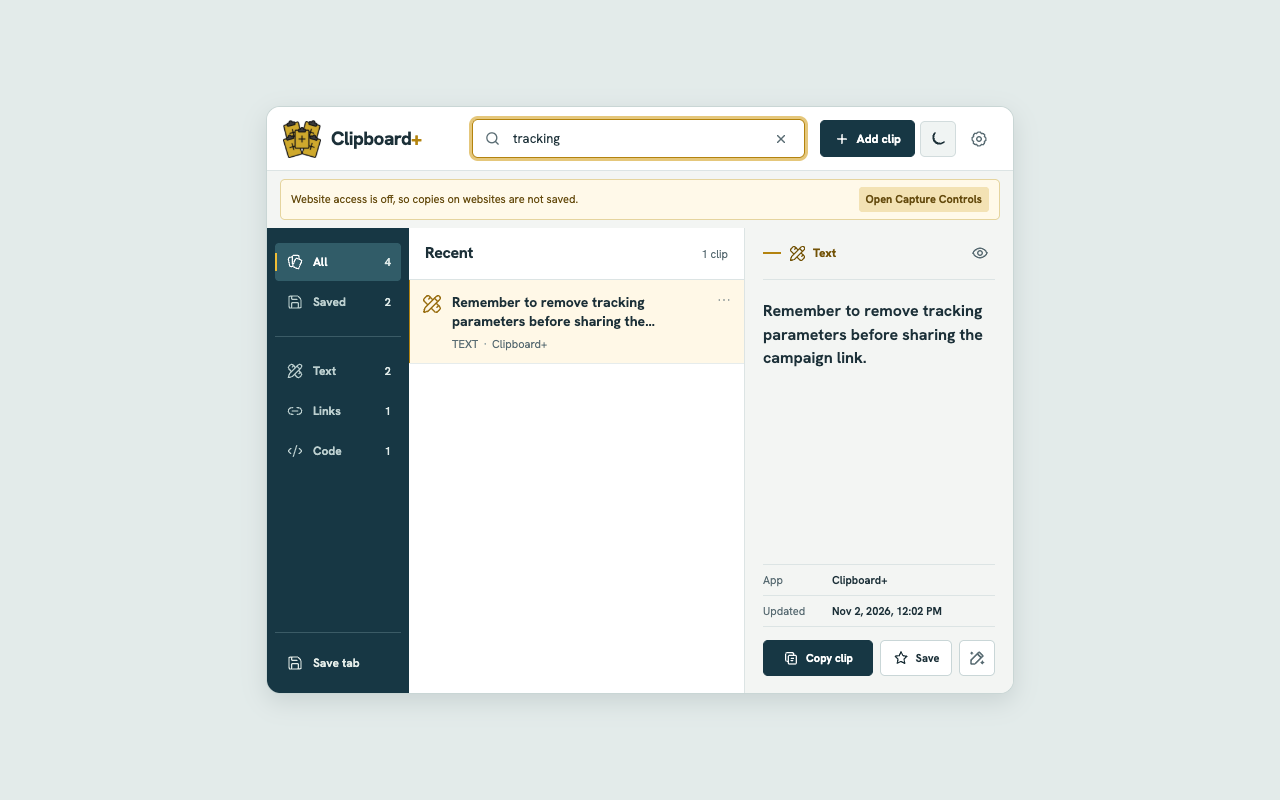
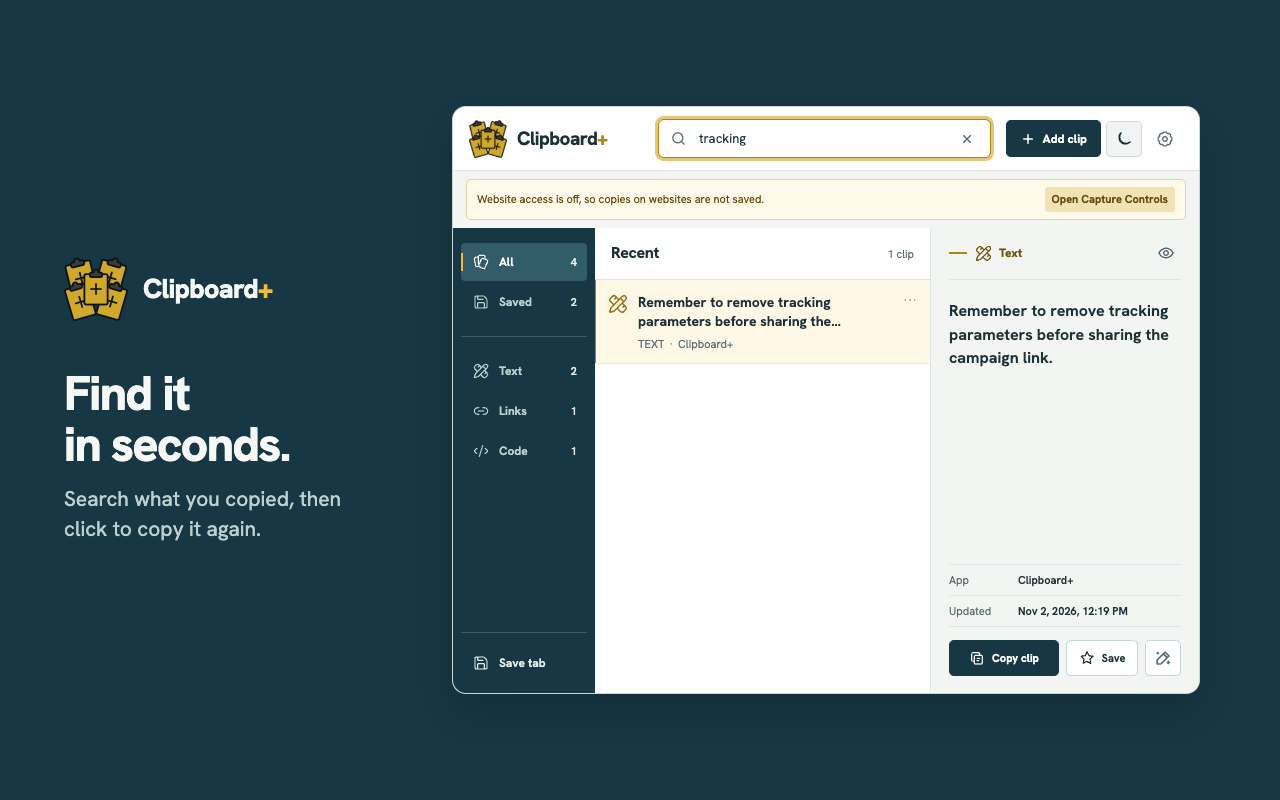
docs: frame store screenshots in Clipboard+ navy

diff --git a/README.md b/README.md
@@ -70,7 +70,7 @@ Upgrading from 1.5.0 or 1.5.1 resets the old build-specific Accessibility entry 
 - Without the companion, Chrome internal pages, the Chrome Web Store, browser UI, and desktop applications cannot be captured. The companion sees the resulting system clipboard instead and covers most of those gaps.
 - Incognito access is disabled in the manifest.
 
-The public [privacy policy](https://tonys-coding.github.io/ClipboardPlus/privacy.html), [support page](https://tonys-coding.github.io/ClipboardPlus/support.html), and [data-deletion instructions](https://tonys-coding.github.io/ClipboardPlus/data-deletion.html) are maintained from `docs/`. `npm run assets:store` captures five 1280×800 store screenshots from the running store build in Chromium, with representative demo clips rather than private user data or mock UI. It also refreshes the two promo tiles and Workspace and Capture Controls previews used by the homepage. The small tile is cropped from the supplied high-resolution JPEG; the marquee uses the supplied real popup screenshot, bundled font, and official logo. Both render at the Web Store's exact 440×280 and 1400×560 PNG sizes. Their sources are kept in `store-assets/source/`. `npm run test:site` checks the five public pages at desktop and mobile sizes.
+The public [privacy policy](https://tonys-coding.github.io/ClipboardPlus/privacy.html), [support page](https://tonys-coding.github.io/ClipboardPlus/support.html), and [data-deletion instructions](https://tonys-coding.github.io/ClipboardPlus/data-deletion.html) are maintained from `docs/`. `npm run assets:store` captures five 1280×800 store screenshots from the running store build in Chromium, with representative demo clips rather than private user data or mock UI. Each genuine capture is framed on the Workspace's petrol-navy background with the official logo and a short feature caption; the interface inside each capture is unaltered. The command also refreshes the two promo tiles and Workspace and Capture Controls previews used by the homepage. The small tile is cropped from the supplied high-resolution JPEG; the marquee uses the supplied real popup screenshot, bundled font, and official logo. Both render at the Web Store's exact 440×280 and 1400×560 PNG sizes. Their sources are kept in `store-assets/source/`. `npm run test:site` checks the five public pages at desktop and mobile sizes.
 
 ## Using the extension
 

diff --git a/store-assets/README.md b/store-assets/README.md
@@ -1,6 +1,6 @@
 # Chrome Web Store screenshots
 
-These five 1280×800 PNGs are captured by `npm run assets:store` from the actual Clipboard+ store build running in Chromium. The script seeds representative local demo clips in a temporary browser profile; it does not use anyone's private clipboard history or draw substitute interface components.
+These five 1280×800 PNGs are captured by `npm run assets:store` from the actual Clipboard+ store build running in Chromium. The script seeds representative local demo clips in a temporary browser profile; it does not use anyone's private clipboard history or draw substitute interface components. Each unaltered UI capture is placed on the product's petrol-navy background alongside the official logo and a short use-case caption.
 
 1. `screenshot-1-history.png` — Recent history, category navigation, clip details, and the honest website-access-off state.
 2. `screenshot-2-search.png` — A successful content search returning a manual note.

diff --git a/CHANGELOG.md b/CHANGELOG.md
@@ -8,6 +8,7 @@ Clipboard+'s Git history was reconstructed from local development milestones aft
 - Keep the supplied source JPEGs and update the asset generator so future refreshes preserve this artwork.
 - Replace the marquee's stylized mock interface with the owner's actual Clipboard+ popup screenshot, without cropping its controls or clip rows.
 - Recapture all five 1280×800 listing screenshots from the running store build with representative demo clips, successful search, actual Code filtering, a filled smart snippet, and the real first-run capture disclosure.
+- Present those five genuine captures on the Workspace's petrol-navy background with the official logo and a concise, accurate feature caption; the extension itself remains unchanged.
 
 ## 1.8.5
 
